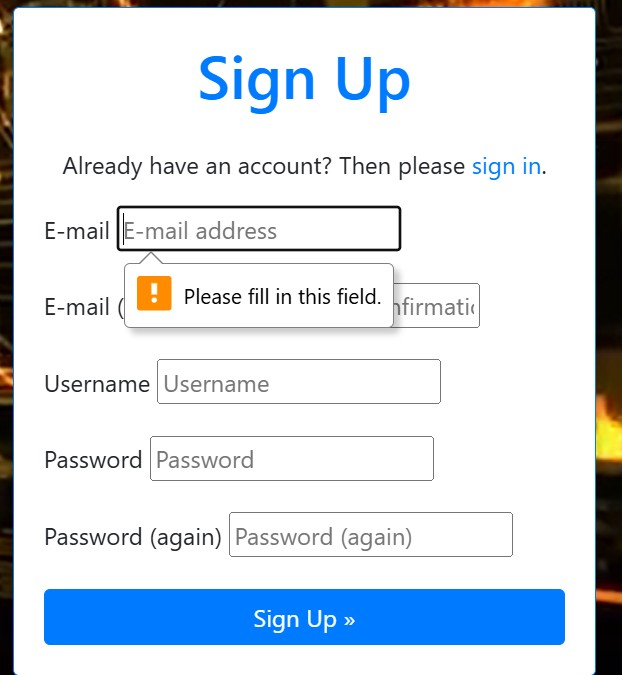
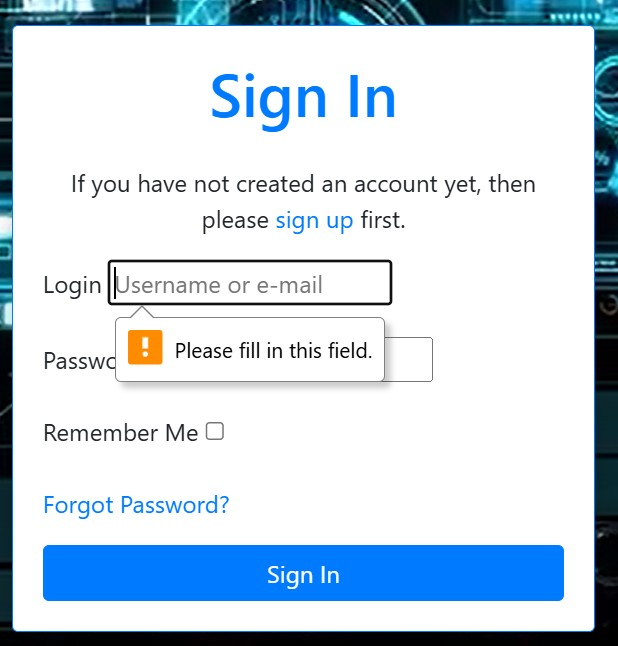
Added more files to the media folder

diff --git a/static/css/base.css b/static/css/base.css
@@ -279,9 +279,3 @@ body {
     }
 }
 
-/*  Maintain background image on small size screens
-@media (max-width: 576px) {
-    .bg-img {
-        width: 100px;
-    }
-} */
